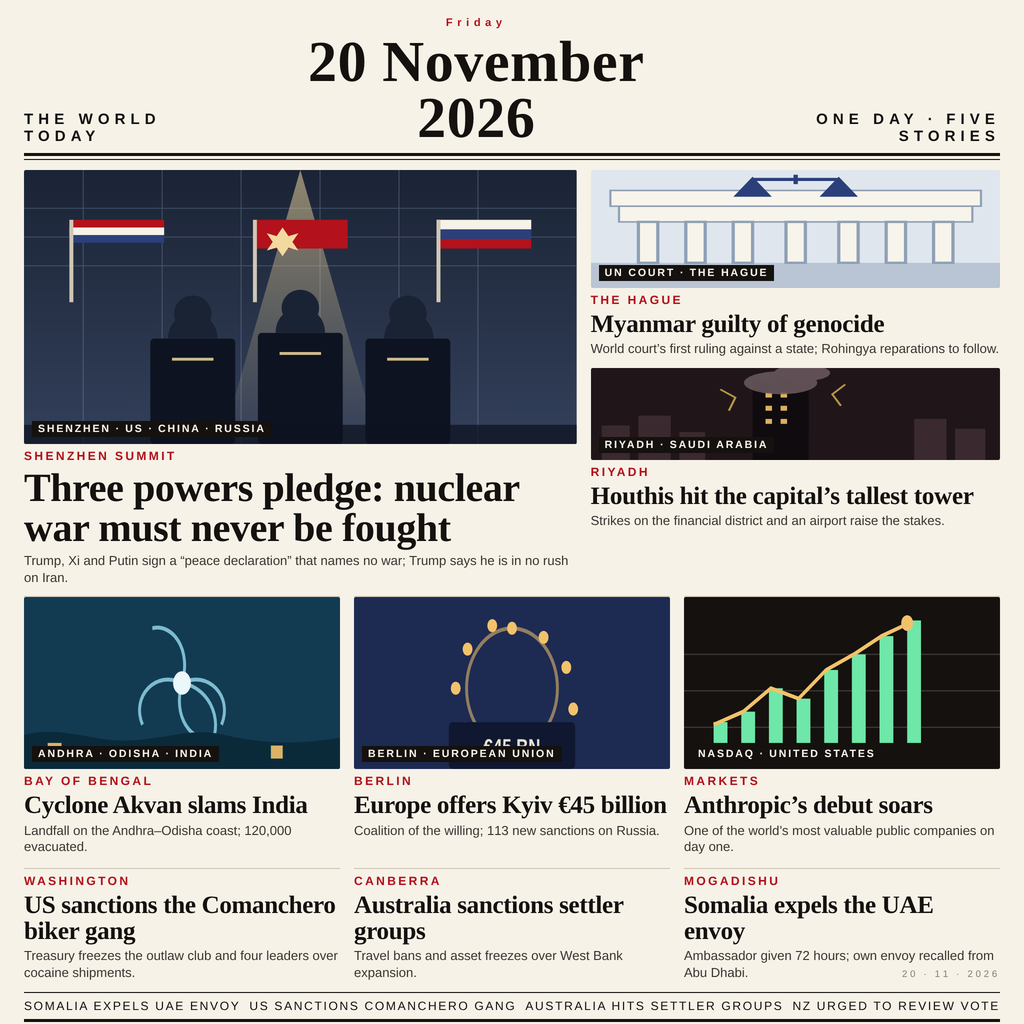
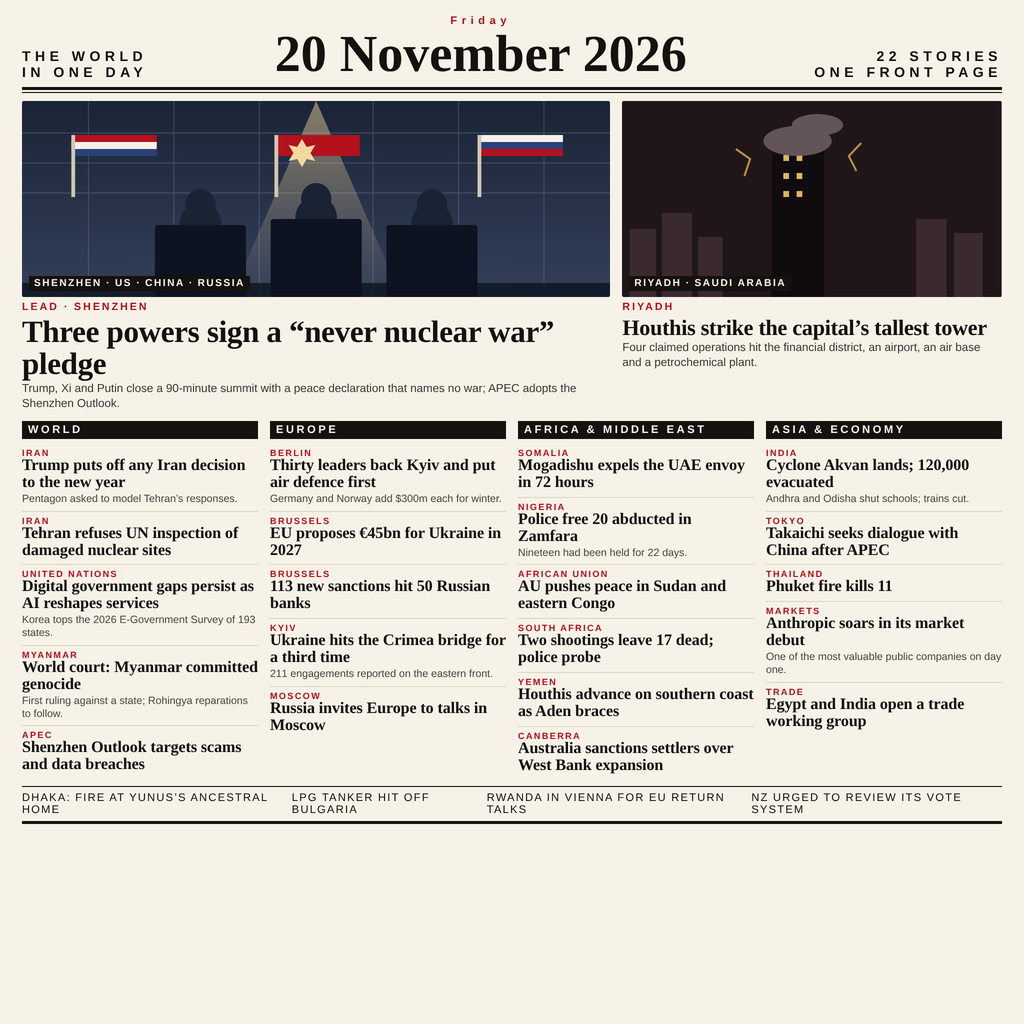
poster: 22-story front page with two illustrated leads

diff --git a/poster/poster2.html b/poster/poster2.html
@@ -1,0 +1,129 @@
+<!doctype html>
+<html><head><meta charset="utf-8">
+<style>
+  html,body{margin:0;padding:0;background:#f6f2e8;color:#14110f;font-family:"Liberation Serif",Georgia,serif}
+  .sheet{width:1024px;height:1024px;box-sizing:border-box;padding:16px 22px 12px;position:relative}
+  .mast{display:flex;align-items:flex-end;justify-content:space-between}
+  .brand{font-family:"Liberation Sans",Arial,sans-serif;font-weight:700;font-size:14px;letter-spacing:.32em;text-transform:uppercase}
+  .date{font-weight:700;font-size:52px;line-height:.94;text-align:center}
+  .date small{display:block;font-family:"Liberation Sans",Arial,sans-serif;font-size:11px;letter-spacing:.42em;font-weight:700;margin-bottom:5px;color:#b3121c}
+  .rule{border-top:3px solid #14110f;margin:7px 0 2px}
+  .rule.thin{border-top:1px solid #14110f;margin:0 0 8px}
+  .row{display:flex;gap:12px}
+  .panel{border-top:1px solid #cfc7b4;min-width:0}
+  .kicker{font-family:"Liberation Sans",Arial,sans-serif;font-weight:700;font-size:10.5px;letter-spacing:.2em;text-transform:uppercase;color:#b3121c;padding:4px 0 2px}
+  h1{font-size:31px;line-height:1.02;margin:1px 0 3px;letter-spacing:-.01em}
+  h2{font-size:22px;line-height:1.05;margin:1px 0 2px;letter-spacing:-.01em}
+  p{font-family:"Liberation Sans",Arial,sans-serif;font-size:11.5px;line-height:1.28;margin:0;color:#3b3630}
+  .art{background:#e9e3d4;overflow:hidden;position:relative;border-radius:2px}
+  .tag{position:absolute;left:7px;bottom:6px;background:#14110f;color:#f6f2e8;font-family:"Liberation Sans",Arial,sans-serif;font-size:10px;font-weight:700;letter-spacing:.16em;padding:2px 5px;text-transform:uppercase}
+  .cols{display:flex;gap:12px;margin-top:9px}
+  .col{flex:1;min-width:0}
+  .sect{font-family:"Liberation Sans",Arial,sans-serif;font-weight:700;font-size:11px;letter-spacing:.24em;
+    text-transform:uppercase;background:#14110f;color:#f6f2e8;padding:3px 6px;margin-bottom:5px}
+  .item{padding:4px 0 5px;border-bottom:1px solid #ddd6c6}
+  .item:last-child{border-bottom:none}
+  .item .h{font-size:16px;line-height:1.06;font-weight:700;letter-spacing:-.005em}
+  .item .d{font-family:"Liberation Sans",Arial,sans-serif;font-size:10.5px;line-height:1.22;color:#4a443c;margin-top:1px}
+  .item .r{font-family:"Liberation Sans",Arial,sans-serif;font-size:9px;font-weight:700;letter-spacing:.16em;color:#b3121c;text-transform:uppercase}
+  .ticker{margin-top:6px;border-top:1px solid #14110f;border-bottom:3px solid #14110f;padding:5px 0;
+    font-family:"Liberation Sans",Arial,sans-serif;font-size:11px;letter-spacing:.12em;text-transform:uppercase;
+    display:flex;justify-content:space-between}
+</style></head>
+<body><div class="sheet">
+
+  <div class="mast">
+    <div class="brand">The World<br>in One Day</div>
+    <div class="date"><small>Friday</small>20 November 2026</div>
+    <div class="brand" style="text-align:right">22 stories<br>One front page</div>
+  </div>
+  <div class="rule"></div><div class="rule thin"></div>
+
+  <div class="row">
+    <div style="flex:1.55;min-width:0">
+      <div class="art" style="height:196px">
+        <span class="tag">Shenzhen &middot; US &middot; China &middot; Russia</span>
+        <svg width="100%" height="100%" viewBox="0 0 620 196" preserveAspectRatio="none">
+          <defs>
+            <linearGradient id="hall" x1="0" y1="0" x2="0" y2="1"><stop offset="0" stop-color="#1b2436"/><stop offset="1" stop-color="#33405a"/></linearGradient>
+            <linearGradient id="spot" x1="0" y1="0" x2="0" y2="1"><stop offset="0" stop-color="#f2d9a0" stop-opacity=".5"/><stop offset="1" stop-color="#f2d9a0" stop-opacity="0"/></linearGradient>
+          </defs>
+          <rect width="620" height="196" fill="url(#hall)"/>
+          <g opacity=".25" stroke="#9fb0cc" stroke-width="1"><path d="M0 32H620M0 62H620M0 92H620"/><path d="M70 0V196M160 0V196M250 0V196M370 0V196M460 0V196M550 0V196"/></g>
+          <polygon points="310,0 400,196 220,196" fill="url(#spot)"/>
+          <g><rect x="52" y="34" width="90" height="7" fill="#b3121c"/><rect x="52" y="41" width="90" height="7" fill="#f6f2e8"/><rect x="52" y="48" width="90" height="7" fill="#2b3f7a"/><rect x="52" y="34" width="4" height="62" fill="#cfc7b4"/></g>
+          <g><rect x="266" y="34" width="90" height="21" fill="#b3121c"/><path d="M295 38l5 8 9-2-5 8 5 8-9-2-5 8-5-8-9 2 5-8-5-8 9 2z" fill="#f2d9a0"/><rect x="266" y="34" width="4" height="62" fill="#cfc7b4"/></g>
+          <g><rect x="480" y="34" width="90" height="7" fill="#f6f2e8"/><rect x="480" y="41" width="90" height="7" fill="#2b3f7a"/><rect x="480" y="48" width="90" height="7" fill="#b3121c"/><rect x="480" y="34" width="4" height="62" fill="#cfc7b4"/></g>
+          <g fill="#0d1320"><rect x="140" y="124" width="96" height="72" rx="3"/><rect x="262" y="118" width="96" height="78" rx="3"/><rect x="384" y="124" width="96" height="72" rx="3"/></g>
+          <g fill="#1a2334"><circle cx="188" cy="104" r="16"/><circle cx="310" cy="98" r="16"/><circle cx="432" cy="104" r="16"/>
+            <path d="M166 124c0-14 10-22 22-22s22 8 22 22z"/><path d="M288 118c0-14 10-22 22-22s22 8 22 22z"/><path d="M410 124c0-14 10-22 22-22s22 8 22 22z"/></g>
+          <rect x="0" y="182" width="620" height="14" fill="#0d1320" opacity=".8"/>
+        </svg>
+      </div>
+      <div class="kicker">Lead &middot; Shenzhen</div>
+      <h1>Three powers sign a &#8220;never nuclear war&#8221; pledge</h1>
+      <p>Trump, Xi and Putin close a 90-minute summit with a peace declaration that names no war; APEC adopts the Shenzhen Outlook.</p>
+    </div>
+
+    <div style="flex:1;min-width:0">
+      <div class="art" style="height:196px">
+        <span class="tag">Riyadh &middot; Saudi Arabia</span>
+        <svg width="100%" height="100%" viewBox="0 0 400 196" preserveAspectRatio="none">
+          <rect width="400" height="196" fill="#20161a"/>
+          <g fill="#3a2a30"><rect x="8" y="128" width="28" height="68"/><rect x="42" y="112" width="32" height="84"/><rect x="80" y="136" width="26" height="60"/><rect x="310" y="118" width="32" height="78"/><rect x="350" y="132" width="30" height="64"/></g>
+          <g fill="#100b0e"><rect x="158" y="40" width="54" height="156"/><path d="M185 y34l28 14v148h-56z"/><path d="M185 34l28 14v148h-56z"/></g>
+          <g fill="#f2c26b" opacity=".92"><rect x="170" y="54" width="6" height="6"/><rect x="184" y="54" width="6" height="6"/><rect x="170" y="72" width="6" height="6"/><rect x="184" y="72" width="6" height="6"/><rect x="170" y="90" width="6" height="6"/><rect x="184" y="90" width="6" height="6"/></g>
+          <g fill="#6b5b60" opacity=".9"><ellipse cx="185" cy="40" rx="36" ry="15"/><ellipse cx="206" cy="24" rx="27" ry="11"/></g>
+          <g fill="none" stroke="#c9a24a" stroke-width="2" opacity=".9"><path d="M120 48l15 10-6 17"/><path d="M252 42l-13 13 8 15"/></g>
+        </svg>
+      </div>
+      <div class="kicker">Riyadh</div>
+      <h2>Houthis strike the capital&#8217;s tallest tower</h2>
+      <p>Four claimed operations hit the financial district, an airport, an air base and a petrochemical plant.</p>
+    </div>
+  </div>
+
+  <div class="cols">
+    <div class="col">
+      <div class="sect">World</div>
+      <div class="item"><div class="r">Iran</div><div class="h">Trump puts off any Iran decision to the new year</div><div class="d">Pentagon asked to model Tehran&#8217;s responses.</div></div>
+      <div class="item"><div class="r">Iran</div><div class="h">Tehran refuses UN inspection of damaged nuclear sites</div></div>
+      <div class="item"><div class="r">United Nations</div><div class="h">Digital government gaps persist as AI reshapes services</div><div class="d">Korea tops the 2026 E-Government Survey of 193 states.</div></div>
+      <div class="item"><div class="r">Myanmar</div><div class="h">World court: Myanmar committed genocide</div><div class="d">First ruling against a state; Rohingya reparations to follow.</div></div>
+      <div class="item"><div class="r">APEC</div><div class="h">Shenzhen Outlook targets scams and data breaches</div></div>
+    </div>
+
+    <div class="col">
+      <div class="sect">Europe</div>
+      <div class="item"><div class="r">Berlin</div><div class="h">Thirty leaders back Kyiv and put air defence first</div><div class="d">Germany and Norway add $300m each for winter.</div></div>
+      <div class="item"><div class="r">Brussels</div><div class="h">EU proposes &#8364;45bn for Ukraine in 2027</div></div>
+      <div class="item"><div class="r">Brussels</div><div class="h">113 new sanctions hit 50 Russian banks</div></div>
+      <div class="item"><div class="r">Kyiv</div><div class="h">Ukraine hits the Crimea bridge for a third time</div><div class="d">211 engagements reported on the eastern front.</div></div>
+      <div class="item"><div class="r">Moscow</div><div class="h">Russia invites Europe to talks in Moscow</div></div>
+    </div>
+
+    <div class="col">
+      <div class="sect">Africa &amp; Middle East</div>
+      <div class="item"><div class="r">Somalia</div><div class="h">Mogadishu expels the UAE envoy in 72 hours</div></div>
+      <div class="item"><div class="r">Nigeria</div><div class="h">Police free 20 abducted in Zamfara</div><div class="d">Nineteen had been held for 22 days.</div></div>
+      <div class="item"><div class="r">African Union</div><div class="h">AU pushes peace in Sudan and eastern Congo</div></div>
+      <div class="item"><div class="r">South Africa</div><div class="h">Two shootings leave 17 dead; police probe</div></div>
+      <div class="item"><div class="r">Yemen</div><div class="h">Houthis advance on southern coast as Aden braces</div></div>
+      <div class="item"><div class="r">Canberra</div><div class="h">Australia sanctions settlers over West Bank expansion</div></div>
+    </div>
+
+    <div class="col">
+      <div class="sect">Asia &amp; Economy</div>
+      <div class="item"><div class="r">India</div><div class="h">Cyclone Akvan lands; 120,000 evacuated</div><div class="d">Andhra and Odisha shut schools; trains cut.</div></div>
+      <div class="item"><div class="r">Tokyo</div><div class="h">Takaichi seeks dialogue with China after APEC</div></div>
+      <div class="item"><div class="r">Thailand</div><div class="h">Phuket fire kills 11</div></div>
+      <div class="item"><div class="r">Markets</div><div class="h">Anthropic soars in its market debut</div><div class="d">One of the most valuable public companies on day one.</div></div>
+      <div class="item"><div class="r">Trade</div><div class="h">Egypt and India open a trade working group</div></div>
+    </div>
+  </div>
+
+  <div class="ticker">
+    <span>Dhaka: fire at Yunus&#8217;s ancestral home</span><span>LPG tanker hit off Bulgaria</span>
+    <span>Rwanda in Vienna for EU return talks</span><span>NZ urged to review its vote system</span>
+  </div>
+</div></body></html>

diff --git a/README.md b/README.md
@@ -5,12 +5,13 @@
 [![reward](https://make.fun/badge/news-image-20261120/sahidmdd/news-image-20261120/reward.svg)](https://make.fun/bounty/news-image-20261120?utm_source=github&utm_medium=readme&utm_campaign=news-image-20261120)
 
 One image that sums up the world news of **Friday, 20 November 2026**: a dated
-front page with the Shenzhen trilateral ("nuclear war must never be fought"),
-the ICJ ruling that Myanmar committed genocide against the Rohingya, Houthi
-strikes on Riyadh's tallest tower, Cyclone Akvan's landfall in India, Europe's
-€45bn offer to Kyiv, Anthropic's market debut, and briefs on the Comanchero
-sanctions, Australia's settler sanctions and Somalia's expulsion of the UAE
-envoy.
+front page carrying 22 stories of the day, with two illustrated leads — the
+Shenzhen trilateral ("nuclear war must never be fought") and the Houthi strike
+on Riyadh's tallest tower — and four columns covering the ICJ's genocide ruling
+against Myanmar, Iran's refusal of UN inspections, Berlin's coalition of the
+willing and the EU's €45bn for Kyiv, 113 new sanctions, Cyclone Akvan's landfall
+in India with 120,000 evacuated, Anthropic's market debut, Somalia's expulsion
+of the UAE envoy and more.
 
 ## Run it
 
